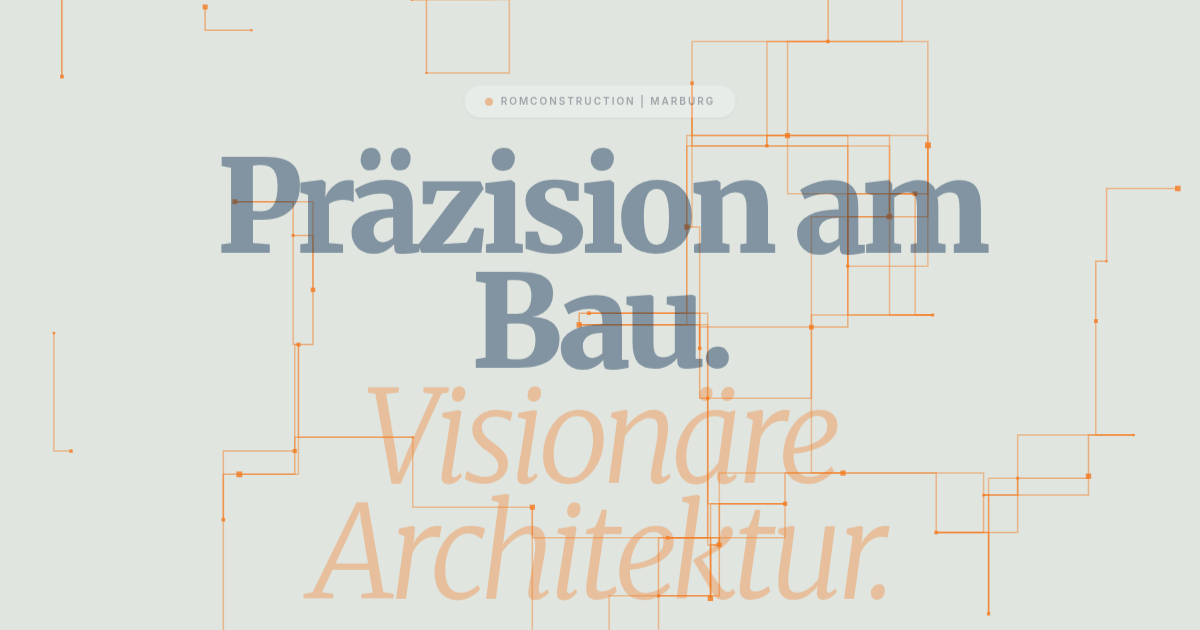
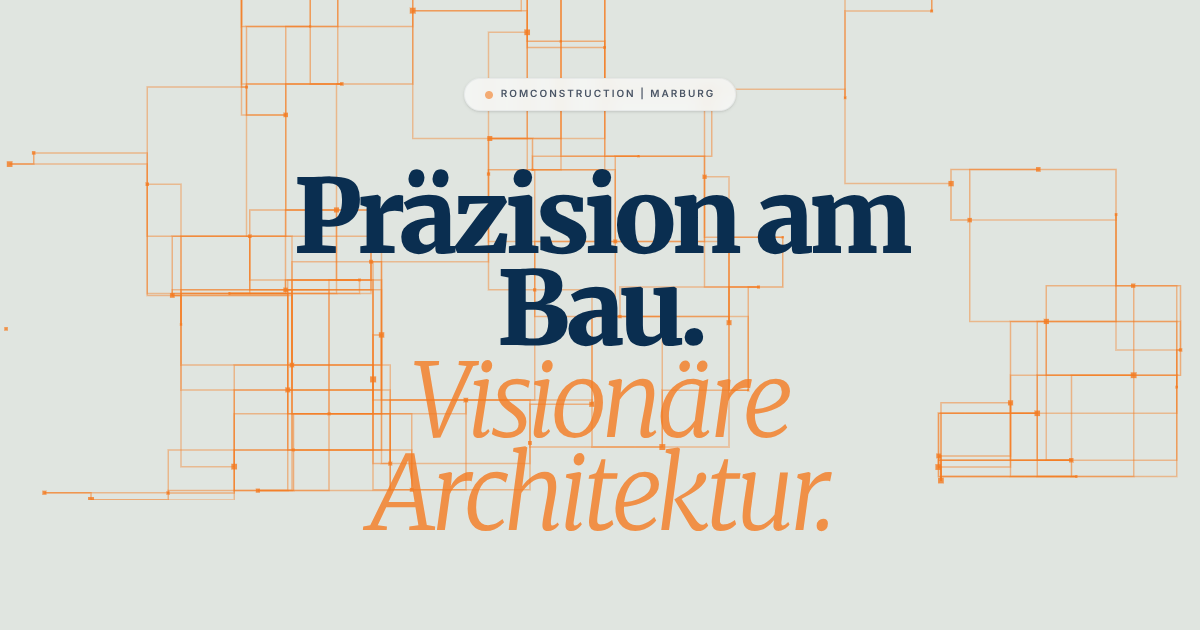
Rechtsseiten-Überschriften auf kleinen Bildschirmen umbrechen, Social-Vorschaubild aktualisieren

diff --git a/components/legal/Rechtsseite.tsx b/components/legal/Rechtsseite.tsx
@@ -28,7 +28,7 @@ const Rechtsseite: React.FC<{ titel: string; children: React.ReactNode }> = ({ t
     return (
         <section className="py-32 px-6 bg-rom-white min-h-screen">
             <div className="container mx-auto max-w-3xl">
-                <h1 className="font-serif text-4xl font-bold mb-8 text-rom-black">{titel}</h1>
+                <h1 className="font-serif text-3xl sm:text-4xl font-bold hyphens-auto mb-8 text-rom-black">{titel}</h1>
                 <div className="space-y-8 text-gray-600 leading-relaxed font-light">
                     {children}
                 </div>

diff --git a/components/legal/Datenschutz.tsx b/components/legal/Datenschutz.tsx
@@ -2,7 +2,7 @@ import React from 'react';
 import Rechtsseite, { Abschnitt, Platzhalter, firma } from './Rechtsseite';
 
 const Datenschutz: React.FC = () => (
-    <Rechtsseite titel="Datenschutzerklärung">
+    <Rechtsseite titel={"Datenschutz\u00ADerklärung"}>
         <p>Stand: Oktober 2026</p>
 
         <Abschnitt titel="1. Verantwortlicher">
